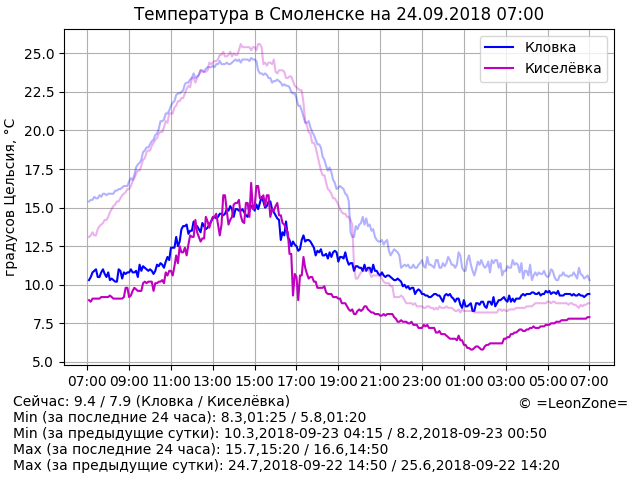
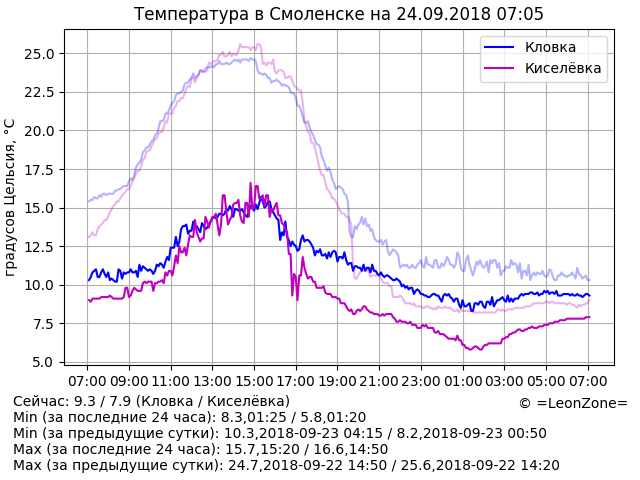
Update data

diff --git a/index.html b/index.html
@@ -14,7 +14,7 @@
 	<p align="center"><script>document.write("<img src=\"graph.png?rnd="+Math.random()+"\" alt=\"Температура в Смоленске\" align=\"middle\" width=\"640\" height=\"480\" />")</script>
 	<p hidden="true">
 <!-- textinfo -->
-Сейчас: 9.4 / 7.9 (Кловка / Киселёвка)
+Сейчас: 9.3 / 7.9 (Кловка / Киселёвка)
 Min (за последние 24 часа): 8.3,01:25 / 5.8,01:20
 Min (за предыдущие сутки): 10.3,2018-09-23 04:15 / 8.2,2018-09-23 00:50
 Max (за последние 24 часа): 15.7,15:20 / 16.6,14:50
